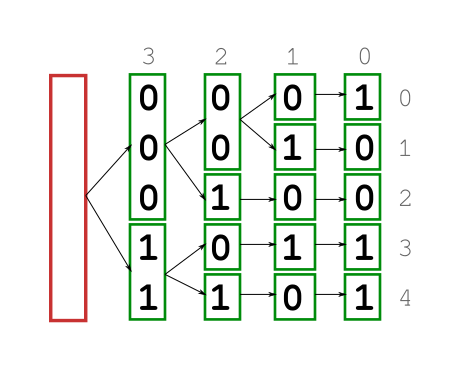
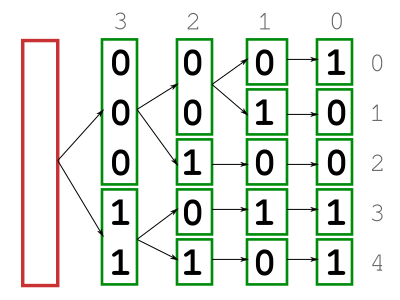
minor styling tweaks

diff --git a/drafts/vtenc.md b/drafts/vtenc.md
@@ -12,11 +12,13 @@ VTEnc is an acronym for **Vertically-Clustered Bits Tree Encoding**. This long n
 
 ### Vertically-Clustered Bits
 
-The first step of the algorithm is to group bits vertically. For that, we first need to represent the input list in binary and think of it as a table. Rows correspond to the values of the list, numbered 0 through $$N-1$$, being $$N$$ the size of the list. Columns are the bit positions, numbered 0 through $$W-1$$, where $$W$$ is the size in bits of each integer in the list. In this table, rows follow a top-to-bottom order and columns conform to a right-to-left arrangement.
+The first step of the algorithm is to group bits vertically. For that, we first need to represent the input list in binary and think of it as a table. Rows correspond to the values of the list, numbered 0 through $$N-1$$, $$N$$ being the size of the list. Columns are the bit positions, numbered 0 through $$W-1$$, where $$W$$ is the size in bits of each integer in the list. In this table, rows follow a top-to-bottom order and columns conform to a right-to-left arrangement.
 
 VTEnc creates clusters by bringing together consecutive bits that have the same value and belong to the same column. Each of these clusters is vertically constrained by the adjacent cluster on its left. That means that a) none of the clusters extends out of the vertical bounds marked by its neighbouring cluster on its left; and b) a cluster can only have one contiguous cluster on its left. So, for example, if there is a cluster in column 3 that extends from row 2 to row 5, then there must necessarily exist one cluster in column 4 that covers the range from row 2 to row 5. Of course, this restriction doesn't apply to clusters in column $$W-1$$ as that is the leftmost column.
 
-<div style="text-align:center"><img alt="VTEnc clusters" src="/img/vtenc-clusters.png" /></div>
+{:refdef: style="text-align: center;"}
+![VTEnc clusters](/img/vtenc-clusters.png)
+{: refdef}
 
 The figure above shows an example of how the clusters would be created for the sequence of 4-bit integers **[1, 2, 4, 11, 13]**. In green, you can see the vertical groups of bits with the same value. Notice that the two possible clusters of two bits each in column 0 (rows 1-2 and 3-4) are not allowed as they don't meet the restriction explained earlier.
 
@@ -26,7 +28,9 @@ The purpose of arranging clusters in this particular way is to ease the creation
 
 Here is the binary tree from the clusters in the previous example:
 
-<div style="text-align:center"><img alt="VTEnc clusters tree" src="/img/vtenc-clusters-tree.png" /></div>
+{:refdef: style="text-align: center;"}
+![VTEnc clusters tree](/img/vtenc-clusters-tree.png)
+{: refdef}
 
 Nonetheless, the tree we want to build here is not exactly as the one from the figure above. We don't care about the specific bits that make up a cluster. Instead, we just use the lengths of the clusters to be the nodes of the tree. For the root node, we use the length of the whole input list.
 
@@ -41,7 +45,9 @@ In order to accomplish (3) and (4), the tree must be extended by adding a 0-valu
 
 Continuing with the same example, this is the final tree:
 
-<div style="text-align:center"><img alt="VTEnc binary tree" src="/img/vtenc-binary-tree.png" /></div>
+{:refdef: style="text-align: center;"}
+![VTEnc binary tree](/img/vtenc-binary-tree.png)
+{: refdef}
 
 ### Encoding
 
